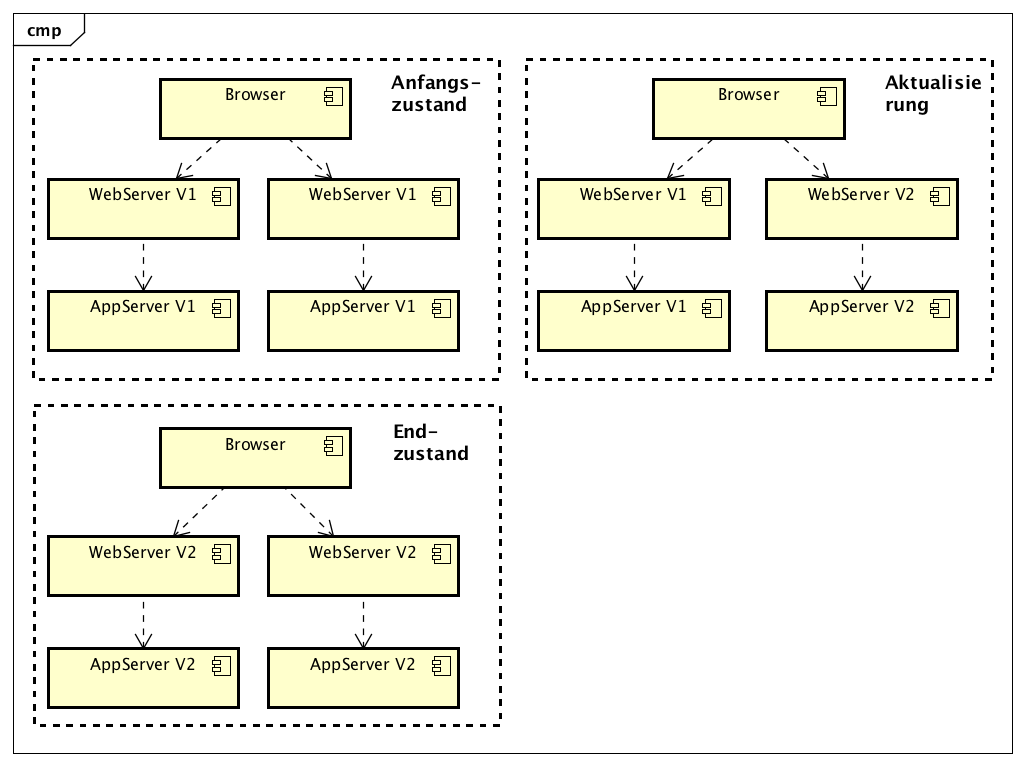
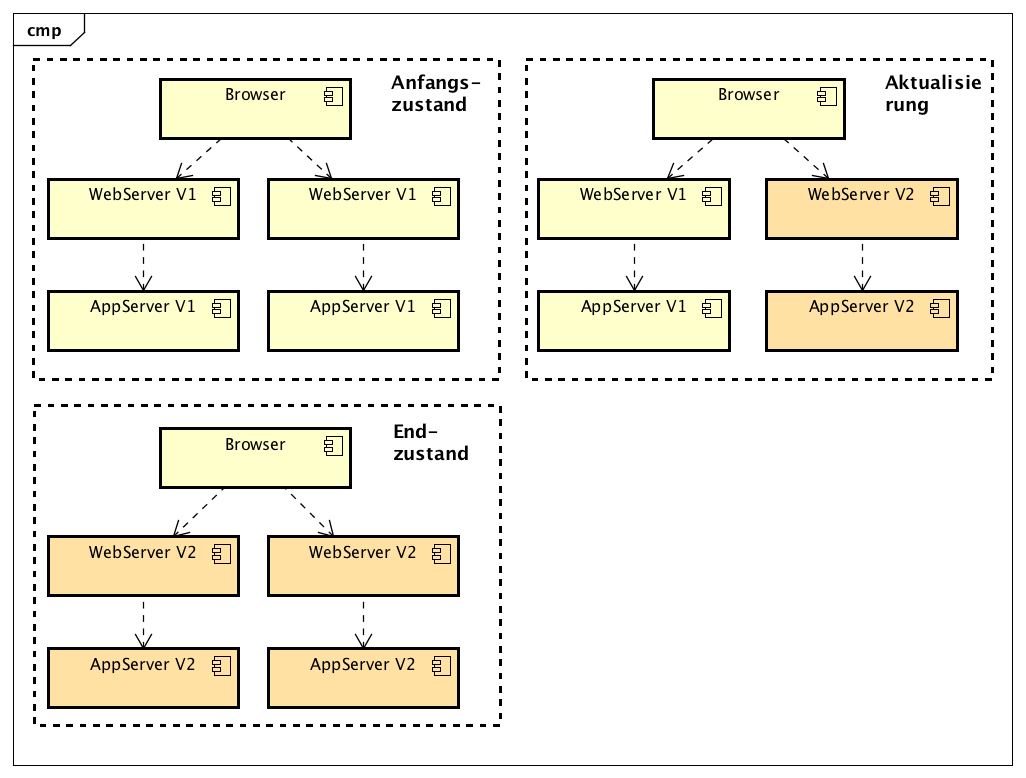
Added review.

diff --git a/thesis/loesung.tex b/thesis/loesung.tex
@@ -10,7 +10,7 @@ Als erster Schritt musste der Umfang der Arbeit definiert werden. Die Applikatio
 
 \section{Anforderungen}
 
-Bevor eine Lösung erarbeitet werden konnte, mussten die Anforderungen an die neue Software Architektur definiert werden. Leider waren die aktuellen Anforderungen ebenfalls nicht in schriftlicher Form vorhanden wodurch diese zusätzlich erfasst werden mussten. Da die Funktionen der Applikation hauptsächlich durch die Software Entwicklung getrieben wurden, konnte der Product Owner des Projektes direkt zu den Anforderungen befragt werden. \textcolor{red}{TODO Der folgende Satz ist zwar korrekt, ich würde ihn aber etwa so formulieren: Bei der Ausarbeitung der Anforderungen für diese Thesis hat sich gezeigt, dass funktional die Applikation unverändert bleibt und der Schwerpunkt auf den nicht funktionalen Anforderungen liegt.}Vor allem bei den neuen hat sich gezeigt, dass sich funktional an der Applikation nichts ändern sollte, sondern nur an den nicht funktionalen. Durch die Problemstellung resultiert daraus die Hauptanforderung, dass der Benutzer von einer Aktualisierung der Anwendung nichts merkt und dadurch der Dienst selber verfügbar bleibt. Aufgrund von Wartungsarbeiten an Netzwerkkomponenten, Datenbanken, oder an Betriebssystemen kann es dennoch zu Unterbrüchen kommen welche jedoch nicht Gegenstand der Lösung sind. Alle Anforderungen finden sich im SAD im Kapitel 1.3
+Bevor eine Lösung erarbeitet werden konnte, mussten die Anforderungen an die neue Software Architektur definiert werden. Leider waren die aktuellen Anforderungen ebenfalls nicht in schriftlicher Form vorhanden wodurch diese zusätzlich erfasst werden mussten. Da die Funktionen der Applikation hauptsächlich durch die Software Entwicklung getrieben wurden, konnte der Product Owner des Projektes direkt zu den Anforderungen befragt werden. Bei der Ausarbeitung der Anforderungen hat sich gezeigt, dass die Applikation funktional unverändert bleibt und der Schwerpunkt auf den nicht funktionalen Anforderungen liegt. Durch die Problemstellung resultiert daraus die Hauptanforderung, dass der Benutzer von einer Aktualisierung der Anwendung nichts merkt und dadurch der Dienst selber verfügbar bleibt. Aufgrund von Wartungsarbeiten an Netzwerkkomponenten, Datenbanken, oder an Betriebssystemen kann es dennoch zu Unterbrüchen kommen welche jedoch nicht Gegenstand der Lösung sind. Alle Anforderungen finden sich im SAD im Kapitel 1.3
 
 \section{Qualitätsziele}
 
@@ -24,7 +24,6 @@ Nach dem die Begrifflichkeiten klar waren, musste das generell zu lösende Probl
 \begin{center}
 	\includegraphics[scale=0.55]{MultiVersion.png}
 \end{center}
-\textcolor{red}{TODO Für ein schnelles Erfassen was hier abgeht schlage ich vor, dass du die neue Version anders einfärbst}
 Daraus lässt sich schliessen, dass die neue Architektur den gleichzeitigen Betrieb von mehreren Versionen unterstützen muss. Dies gilt vor allem für die Schnittstellen und die Datenspeicherung. Da die Applikation nicht geschäftskritisch ist, könnte eine Aktualisierung auch in der Nacht durchgeführt werden wenn sich tendenziell kein Benutzer auf der Webseite befinden. So könnten die Probleme mit der Versionierung der Schnittstelle minimiert werden, für die Datenbank braucht es dennoch eine Lösung.	
 
 \section{Teilprobleme}
@@ -33,7 +32,7 @@ Mit dem generellen Verständnis und den Anforderungen konnten nun Teilprobleme i
 
 \subsection{Versionierung}
 
-Wie bereits in der Problematik erwähnt, müssen Schnittstellen versioniert werden und abwärtskompatibel sein, damit der Benutzer von einer Änderung nichts merkt. Hier geht es vor allem um die REST \textcolor{red}{TODO REST mit Footnote?} Endpunkte, welche der Onboarding Server der Webseite zur Verfügung stellt.
+Wie bereits in der Problematik erwähnt, müssen Schnittstellen versioniert werden und abwärtskompatibel sein, damit der Benutzer von einer Änderung nichts merkt. Hier geht es vor allem um die REST\footnote{Steht für Representational State Transfer und ist eine Programmierparadigma welche in verteilten System für die Datenübertragung verwendet wird.} Endpunkte, welche der Onboarding Server der Webseite zur Verfügung stellt.
 
 \subsection{Datenspeicherung}
 
@@ -45,23 +44,23 @@ Soll der Benutzer sich auch bei der Aktualisierung der Applikation für TWINT re
 
 \subsection{Konfigurationsmanagement}
 
-Im Ist-Zustand wurde das aktuelle Konfigurationsmanagement mittels Docker und Docker Compose bereits erwähnt\textcolor{red}{TODO ist Docker Compose in diesem wirklich bereits erwähnt? Anstatt bereits erwähnt würde hier bewerkstelligt}. Für die neuen Anforderungen muss die aktuelle Lösung geprüft und gegebenenfalls ein anderer Ansatz verfolgt werden. Die Änderung der Konfiguration zur Laufzeit, als neue Anforderung, ist bei einer Applikation die immer wieder ausgerollt werden soll zwingend notwendig um die einzelnen Funktionen besser steuern zu können.
+Aktuell wird das Konfigurationsmanagement mit Hilfe von Docker und Docker Compose bewerkstelligt. Für die neuen Anforderungen muss die aktuelle Lösung geprüft und gegebenenfalls ein anderer Ansatz verfolgt werden. Die Änderung der Konfiguration zur Laufzeit, als neue Anforderung, ist bei einer Applikation die immer wieder ausgerollt werden soll zwingend notwendig um die einzelnen Funktionen besser steuern zu können.
 
 \subsection{Deployment Pipeline}
 
-Die Build Pipeline\footnote{Eine Pipeline ist eine Abfolge von Buildäufträgen(Stages) welche parallel und sequenziell ablaufen können. }, welche im Antrag erwähnt wurde wegen ihrer Wichtigkeit für das Bauen und Installieren der Applikation, wurde nicht weiterverfolgt. Der Grund dafür liegt in dem Fortschritt der Methodik, welche das Projekt seit dem Antrag gemacht hat. Wie in\cite{atlassiancd} beschrieben, sind verschieden Stages in der Pipeline sowie Feature Branchens in GIT eine Voraussetzung um eine Applikation zeitnahe in Betrieb zu bringen. Diese Praktiken werden aktuell im normalen Arbeitstag verwendet und müssen deshalb nicht nochmals evaluiert werden.
+Die Build Pipeline\footnote{Eine Pipeline ist eine Abfolge von Buildäufträgen(Stages) welche parallel und sequenziell ablaufen können. }, welche im Antrag erwähnt wurde wegen ihrer Wichtigkeit für das Bauen und Installieren der Applikation, wurde nicht weiterverfolgt. Der Grund dafür liegt in dem Fortschritt der Methodik, welche das Projekt seit dem Antrag gemacht hat. Wie in \cite{atlassiancd} beschrieben, sind verschieden Stages in der Pipeline sowie Feature Branchens in GIT eine Voraussetzung um eine Applikation zeitnahe in Betrieb zu bringen. Diese Praktiken werden aktuell im normalen Arbeitstag verwendet und müssen deshalb nicht nochmals evaluiert werden.
 
 \subsection{Fazit}
 
 Eine Aufteilung der Problematik in Teilprobleme hat geholfen ein bessere Verständnis zu erlangen welche Aspekte der aktuellen Architektur betroffen sind. Dadurch war eine bessere Fokusierung auf die Variantenfindung möglich und hat verhindert, dass Zeit mit nicht relevanten Themen verschwendet wird.
 
 \section{Bewertungskriterien}
-\textcolor{red}{TODO auch wenn dies jetzt noch nicht gemacht ist würde ich den Abschnitt in Vergangenheit halten, wie den Rest der Arbeit, da zum Zeitpunkt der Abgabe dies erledigt ist. Habe ich aber in dem Fall nicht angepasst}
-Die auszuarbeitenden Lösungsvarianten müssen auf ihre Verwendbarkeit geprüft und bewertet werden. Obschon Qualitätsziele für die Architektur definiert sind, eignen sie sich für die Bewertung von Bibliotheken und Lösungsvarianten nur bedingt. Weder das Arc42 Template noch \cite{esa} haben angemessen Metriken und Methoden im Angebot. Aus diesem Grund wird eine Bewertungsmatrix erstelle welche im CAS Software Architektur Workshop Modul bereits angewendet wurde. Dabei sind die einzelnen Kriterien mit dem Product Owner abgesprochen und gewichtet worden. Dabei lag der Fokus mehr auf Eigenschaften der einzelnen Bibliotheken und Produkte wie Maturität, vorhandenes Wissen, oder auf Aufwand. Die Kriterien überlappen sich an einigen Stellen mit den Qualitätszielen, was jedoch nicht als Nachteil gewertet wurde. Die Kriterien sind gezielt vor der Lösungsfindung erstellt worden um den Prozess möglichst objektiv zu halten. Spätere Anpassungen mussten trotzdem gemacht werden da nicht alles von Beginn an klar war. Die Kriterien sind im SAD im Kapitel 9.2 detailliert aufgeführt.
+
+Die auszuarbeitenden Lösungsvarianten mussten auf ihre Verwendbarkeit geprüft und bewertet werden. Obschon Qualitätsziele für die Architektur definiert sind, eignen sie sich für die Bewertung von Bibliotheken und Lösungsvarianten nur bedingt. Weder das Arc42 Template noch \cite{esa} haben angemessen Metriken und Methoden im Angebot. Aus diesem Grund wurde eine Bewertungsmatrix erstellt welche im CAS Software Architektur Workshop Modul bereits angewendet wurde. Dabei sind die einzelnen Kriterien mit dem Product Owner abgesprochen und gewichtet worden. Der lag Fokus mehr auf Eigenschaften der einzelnen Bibliotheken und Produkte wie Maturität, vorhandenes Wissen, oder potentieller Aufwand für Neuentwicklung und Anpassung. Die Kriterien überlappten sich an einigen Stellen mit den Qualitätszielen, was jedoch nicht als Nachteil gewertet wurde. Die Kriterien sind gezielt vor der Lösungsfindung erstellt worden um den Prozess möglichst objektiv zu halten. Spätere Anpassungen mussten trotzdem gemacht werden da nicht alles von Beginn an klar war. Die Kriterien sind im SAD im Kapitel 9.2 detailliert aufgeführt.
 
 \subsection{Fazit}
 
-Das Erstellen der Bewertungskriterien hatte den Vorteil die Bewertungen nicht den Lösungen anzupassen. Der Nachteil war, dass Kriterien vergessen gingen, was zu einer erneuten Bewertung oder Anpassung führte.
+Das Erstellen der Bewertungskriterien vor dem Ausarbeiten der Lösungsvarianten hatte den Vorteil, dass die Bewertungen nicht den Lösungen angepasst wurde. Der Nachteil war, dass Kriterien vergessen gingen und teilweise auch erst durch die Prototypen sichtbar wurden. Dadurch mussten eine zweite Bewertungsrunde durchgeführt werden.
 
 
 \section{Teillösungensvarianten}
@@ -89,8 +88,7 @@ Bei der Datenspeicherung war die Frage ob der aktuelle Ansatz mit einer relation
 Bei SIX wird Oracle seit langer Zeit eingesetzt und ist der Standard für Datenspeicherung jeglicher Art. Aus diesem Grund wurde dies logischerweise als Variante in Betracht gezogen. Sie bietet alle Features um Anwendungen im Geschäftsbereich zu betreiben.\newline
 Die zweite Variante in der Liste ist die MySQL Datenbank. Diese wird aktuell in der produktiven Applikation verwendet was sie ebenfalls als Kandidaten für die Speicherung der Daten empfiehlt.
 MySQL bietet wie Oracle diverse Mechanismen welche für Geschäftsanwendungen unumgänglich sind. Das Know-how für den Betrieb ist jedoch nicht auf dem gleichen Stand wie bei Oracle.\newline
-Als neue Möglichkeit für die Datenspeicherung sind NoSQL\footnote{NoSQL steht für Not Only SQL und kategorisiert Datenbanken welche schemalos sind und nicht nach dem ACID Prinzip arbeiten.} Datenbanken. Die Idee für deren Verwendung stammt vom CAS Big Data und den dazu gehörenden Folien \cite{nosqlintro}. \textcolor{red}{TODO Den folgenden Satz verstehe ich nicht, .. nicht nur .. sondern auch .. wäre für mich richtig} Dabei geht es nicht nur um den Umstand, dass die NoSQL Datenbanken kein Schema haben, sondern im Kontext des CAP-Theorems, welches im vorgängigen Kapitel erläutert wurde. 
-Daraus ergab sich die dritte Variante die Speicherung mit MongoDB zu realisieren. Die Datenbank arbeiten im Unterschied zu relationalen Datenbanken nicht mit Tabellen sondern mit Dokumenten. Diese sind schemalos und können deshalb gleichzeitig in mehreren Versionen vorliegen. Dadurch ist bei einem Update der Anwendung keine Schemamigration notwendig.\newline
+Eine neue Möglichkeit der Datenspeicherung sind NoSQL\footnote{NoSQL steht für Not Only SQL und kategorisiert Datenbanken welche schemalos sind und nicht nach dem ACID Prinzip arbeiten.} Datenbanken. Die Idee für deren Verwendung stammt vom CAS Big Data und den dazu gehörenden Folien \cite{nosqlintro}. Daraus ergab sich die dritte Variante die Speicherung mit MongoDB zu realisieren. Die Datenbank arbeiten im Unterschied zu relationalen Datenbanken nicht mit Tabellen sondern mit Dokumenten. Diese sind schemalos und können deshalb gleichzeitig in mehreren Versionen vorliegen. Dadurch ist bei einem Update der Anwendung keine Schemamigration notwendig.\newline
 Als letzte Variante wurde Redis in Betracht gezogen. Es handelt sich dabei ebenfalls um eine NoSQL Datenbank welche jedoch ein Key-Value Store ist. Sie verfügt über eine Abfrage Sprache um Daten zu finden und wird auch bereits bei SIX verwendet.
 
 \subsection{Kommunikationsentkopplung}
@@ -129,7 +127,7 @@ Durch die Bewertung blieben nur MySQL und MongoDB übrig. Leider konnten für be
 
 \subsection{Konfigurationsmanagement}
 
-Docker Compose wurde bei einem Interview mit den Entwicklern als ungenügend dokumentiert und schwerfällig bezeichnet, weshalb es als künftige Variante nicht in Frage kommt. Die Docker Container selber wurden als angemessene Lösung empfunden und sollten deshalb, wenn möglich, weiterverwendet werden. Saltstack arbeitet generell mit anderen Konzepten als die jetzt verwendeten Container, was einen Einsatz nicht sinnvoll macht, obschon die Bewertung eher hoch ausgefallen ist. OpenShift, als Variante, hat eine schlechtere Bewertung als SaltStack, ist für die Firma mittlerweile aber von strategischer Bedeutung was aussagen des Product Owner auch belegen. Daher ist eine Verwendung unumgänglich. Hierfür musste jedoch weitere Recherchen gemacht werden um den Einsatz besser abzuschätzen. Die beste Bewertung hat Spring Cloud Config erhalten vor allem wegen des guten Know-hows und der Bekanntheit von Spring. Nichtsdestotrotz wurde entschieden ein Prototypen zu machen um die Funktionsweise verifizieren zu können.
+Docker Compose wurde bei einem Interview mit den Entwicklern als ungenügend dokumentiert und schwerfällig bezeichnet, weshalb es als künftige Variante nicht in Frage kommt. Die Docker Container selber wurden als angemessene Lösung empfunden und sollten deshalb, wenn möglich, weiterverwendet werden. Saltstack arbeitet generell mit anderen Konzepten als die jetzt verwendeten Container, was einen Einsatz nicht sinnvoll macht, obschon die Bewertung eher hoch ausgefallen ist. OpenShift, als Variante, hat eine schlechtere Bewertung als SaltStack, ist für die Firma mittlerweile aber von strategischer Bedeutung was aussagen des Product Owner auch belegen. Daher ist eine Verwendung unumgänglich weil anderenfalls die Lösung unter die Kategorie 'Special Solutions' fällt und die Kosten dadurch selber getragen werden müssen. Hierfür musste jedoch weitere Recherchen gemacht werden um den Einsatz besser abzuschätzen. Die beste Bewertung hat Spring Cloud Config erhalten vor allem wegen des guten Know-hows und der Bekanntheit von Spring. Nichtsdestotrotz wurde entschieden ein Prototypen zu machen um die Funktionsweise verifizieren zu können.
 
 \subsection{Kommunikationsentkopplung}
 
@@ -316,7 +314,7 @@ Das Software Architektur Dokument wurde schon während den Evaluationen und dem 
 
 \subsection{Bausteinsicht}
 
-Von Vorarbeiten her war bekannt, dass die Applikation mit einer Schichtenarchitektur umgesetzt wurde und wie die Schichten auf die einzelnen Komponenten verteilt sind. Der interne Aufbau war hingegen nicht bekannt und musste deshalb zuerst herausgefunden werden. Hierfür wurde einerseits der Sourcecode verwendet und andererseits die beteiligten Entwickler direkt befragt. Eine Schwierigkeit war es die Komponenten der Ebene entsprechend zu kategorisieren und zusammenzufassen. Zusätzlich musste der neue Teil mit der Konfiguration vermerkt werden. \textcolor{red}{TODO was sagt der nächste Satz?}Damit die auf der ersten Ebene die Übersicht nicht verloren ging, wurden auf der zweiten Ebene die wichtigsten Teile genauer ausgearbeitet und mit den Entwicklern verifiziert. Auf eine noch genauere Ebene wurde verzichtet, da die gelieferten Informationen die wichtigsten Aspekte beschreiben. Die Bausteinsicht befindet sich im SAD im Kapitel 6.
+Von Vorarbeiten her war bekannt, dass die Applikation mit einer Schichtenarchitektur umgesetzt wurde und wie die Schichten auf die einzelnen Komponenten verteilt sind. Der interne Aufbau war hingegen nicht bekannt und musste deshalb zuerst herausgefunden werden. Hierfür wurde einerseits der Sourcecode verwendet und andererseits die beteiligten Entwickler direkt befragt. Eine Schwierigkeit war es die Komponenten der Ebene entsprechend zu kategorisieren und zusammenzufassen. Zusätzlich musste der neue Teil mit der Konfiguration vermerkt werden. Um die Übersicht auf der ersten Ebene zu wahren, wurden auf der zweiten Ebene die wichtigsten Teile genauer ausgearbeitet und mit den Entwicklern verifiziert. Auf eine noch genauere Ebene wurde verzichtet, da die gelieferten Informationen die wichtigsten Aspekte beschreiben. Die Bausteinsicht befindet sich im SAD im Kapitel 6.
 
 \subsection{Laufzeitsicht}
 
@@ -325,7 +323,7 @@ Durch die Verwendung von Spring Cloud Config ist der Ablauf der Konfigurationsä
 
 \subsection{Verteilungssicht}
 
-Mit dem Entscheid OpenShift als Plattform zu verwendet anstelle von Docker Compose, musste die Art wie die Applikation verteilt wird neu definiert werden. Vor allem musste Klarheit über die einzelnen Komponenten von OpenShift sowie das Deployment der Plattform selber verstanden werden. Durch SIX interne Kurse mit Red Hat sowie in enger Absprache mit den Administratoren konnte eine erste Idee gewonnen werden. Aktuell ist das Ziel die Plattform in beiden Rechenzentren in Zürich und Lupfig zu installieren und dies jeweils in der DMZ und PCI\textcolor{red}{TODO ev. Footnote, dass es sich um Firewallzonen handelt} Zone. Die Applikation selber weiss nicht wo die einzelnen Teile laufen, sondern überlässt das ganze Routing OpenShift, welches im Endeffekt ein Software Defined Network\footnote{Ein Software Defined Network oder kurz SDN ist eine Technik mit der sich Netzwerktopologien mittels Software definieren und steuern lassen. Somit ist es nicht mehr nötig die Netzwerkkomponenten von Hand zu konfigurieren. } ist. Mit diesem Wissen konnte die Verteilungssicht erstellt und beschrieben werden. Mit OpenShift kommen zusätzliche neue Begriffe hinzu welche angemessen erklärt werden mussten. Diese wurde direkt aus der Dokumentation von \cite{osservicepod} extrahiert. Die Bausteinsicht befindet sich im SAD im Kapitel 8.
+Mit dem Entscheid OpenShift als Plattform zu verwendet anstelle von Docker Compose, musste die Art wie die Applikation verteilt wird neu definiert werden. Vor allem musste Klarheit über die einzelnen Komponenten von OpenShift sowie das Deployment der Plattform selber verstanden werden. Durch SIX interne Kurse mit Red Hat sowie in enger Absprache mit den Administratoren konnte eine erste Idee gewonnen werden. Aktuell ist das Ziel die Plattform in beiden Rechenzentren in Zürich und Lupfig zu installieren und dies jeweils in den Firewallzonen DMZ und PCI. Die Applikation selber weiss nicht wo die einzelnen Teile laufen, sondern überlässt das ganze Routing OpenShift, welches im Endeffekt ein Software Defined Network\footnote{Ein Software Defined Network oder kurz SDN ist eine Technik mit der sich Netzwerktopologien mittels Software definieren und steuern lassen. Somit ist es nicht mehr nötig die Netzwerkkomponenten von Hand zu konfigurieren. } ist. Mit diesem Wissen konnte die Verteilungssicht erstellt und beschrieben werden. Mit OpenShift kommen zusätzliche neue Begriffe hinzu welche angemessen erklärt werden mussten. Diese wurde direkt aus der Dokumentation von \cite{osservicepod} extrahiert. Die Bausteinsicht befindet sich im SAD im Kapitel 8.
 
 \subsection{Konzepte}
 
@@ -364,7 +362,7 @@ Der Prototyp wurde aufgrund des Testserversetups im Vergleich zur Installation, 
 
 {\color{red} Erledigen nach dem Meeting mit Change Management am Montag 27.2}
 
-\subsection{Fazit Software Architektur Dokument}
+\subsection{Fazit}
 
 Das Software Architektur Dokument ist ein gutes Mittel und auch Leitfaden um ein System und seine Architektur zu beschreiben. Gernot Starke hat mit dem Arc42 eine gute Basis geschaffen, welche Architekten bei ihrer Arbeit hilft. Es hat sich aber auch gezeigt, dass es sich um ein Grundgerüst handelt, welches stellenweise erweitert werden muss. Das Kapitel Entwurfsentscheidung sei hier erwähnt, da es doch eine detaillierte Beschreibung der getroffenen Entscheidungen zeigt. Ohne diese ist eine spätere Anpassung der Architektur schwierig und mit Aufwand verbunden.
 
@@ -376,4 +374,5 @@ Das Software Architektur Dokument ist ein gutes Mittel und auch Leitfaden um ein
 
 \section{Ergebnis}
 
-{\color{red} Ich muss mir das noch kurz zusammenreimen wie ich das ganze SAD auf ein kurzes Kapitel zusammendrücke.}
+Das Ergebnis der Thesis ist ein Software Architektur Dokument welches die neue Architektur auf einem Abstraktionslevel beschreibt damit ein Entwicklerteam die aktuelle Anwendung anpassen könnte. Die verschiedenen Sichten im Dokument illustrieren wie der Anwendungsfall in den einzelnen Teilen der Applikation umgesetzt werden muss. Das Dokument erklärt wie die verschiedenen Konzepte, vor allem Continuous Delivery, eingesetzt und was dabei beachtet werden muss. Schlussendlich sind sämtliche Entscheidungen, welche während der Erarbeitung getroffen wurden, dokumentiert und ermöglichen dadurch spätere Anpassungen.\newline
+Die erstellten Prototypen können als Einstiegspunkt für die Entwicklung verwendet werden und dienen zusätzlich dazu, dass Verständnis für die Lösung besser darzustellen.

diff --git a/thesis/ausgangslage.tex b/thesis/ausgangslage.tex
@@ -13,7 +13,7 @@ Die Applikation wurde mit aktuellen Frameworks entwickelt. In der folgenden Tabe
 \begin{table}[H]
 	\centering
 	\caption{Technische Rahmenbedienungen}
-	\begin{tabular}{ | p{4cm} | p{12cm} | }
+	\begin{tabular}{ | p{4cm} | p{10cm} | }
 		\toprule
 		{\textbf{Technologie / Tool}} & {\textbf{Einsatzzweck}} \\
 		\midrule
@@ -41,7 +41,7 @@ Der Onboarding Teil ist mit Hilfe einer Schichtenarchitektur umgesetzt wobei die
 
 \subsection{Organisatorisch}
 
-Da SIX im Finanzbereich tätig ist, gibt es Richtlinien und Prozesse wann, wie und ob Änderungen überhaupt in Produktion gehen dürfen. Aktuell werden die Changes im Issue Trackingsystem Jira erfasst und mit einer Release Version versehen. Durch die Anbindung an Fisheye und SVN ist jederzeit ersichtlich mit welchem Ticket welche Codeteile betroffen waren. Da das Projekt unter erleichterten Bedingungen umgesetzt wurde ist ein Eintrag im ITSM \footnote{Change Management Applikation welche \textcolor{red} {TODO eigentlich ist im ITSM ITIL \url{https://de.wikipedia.org/wiki/IT_Infrastructure_Library} abgebildet, das Change Management ist ein Teil davon} für das Erfassen von Änderungen an Systemen verwendet wird.} System aktuell nicht Pflicht obschon das gemäss normalen Richtlinien der Fall wäre. Mittlerweile können Änderungen mit einem Prozess von Jira ins ITSM automatisch übertragen werden.
+Da SIX im Finanzbereich tätig ist, gibt es Richtlinien und Prozesse wann, wie und ob Änderungen überhaupt in Produktion gehen dürfen. Aktuell werden die Changes im Issue Trackingsystem Jira erfasst und mit einer Release Version versehen. Durch die Anbindung an Fisheye und SVN ist jederzeit ersichtlich mit welchem Ticket welche Codeteile betroffen waren. Da das Projekt unter erleichterten Bedingungen umgesetzt wurde ist ein Eintrag im ITSM \footnote{Anwendung für ITIL \url{https://de.wikipedia.org/wiki/IT_Infrastructure_Library} welches auch das Change Management enthält.} System aktuell nicht Pflicht obschon das gemäss normalen Richtlinien der Fall wäre. Mittlerweile können Änderungen mit einem Prozess von Jira ins ITSM automatisch übertragen werden.
 Gemäss den Richtlinien müsste eine Änderung fünf Personentage vor Going live eingetragen und freigegeben sein. Die Praxis ist wie erwähnt auf die Branche der SIX zurückzuführen und hat unter genauerer Betrachtung eher formellen Nutzen. Die Freigabe im System wird meistens von Personen gemacht welche nicht an der Entwicklung und dem Betrieb der Applikation beteiligt sind. Für diese Personen ist eine Beurteilung der Änderungen meist nicht möglich. Hier wäre wohl eine Kategorisierung der Applikation, welche einen solchen Prozess benötigen, sinnvoll, um nicht unnötige Prozesse für kleine nicht zwingen kritische Applikation zu forcieren.
 
 \section{Situationsanalyse}
@@ -53,7 +53,7 @@ Durch die Initiativen ändert sich auch der organisatorische Aspekt. So sollen V
 
 \subsection{Scrum}
 
-Für das Projekt Management der Masterthesis wird Scrum\footnote{Iteratives Entwicklungsverfahren welches sich auf das Agile Manifesto stützt und diesem diverse Rollen hinzufügt. } verwendet. Im Rahmen der Masterthesis wird jedoch nicht der ganze Werkzeugkasten der Methodik verwendet da dies zu viel Aufwand bedeuten würde. Wichtige Teile, wie das Planning, werden entsprechen kurz gehalten.
+Für das Projekt Management der Masterthesis wird Scrum\footnote{Iteratives Entwicklungsverfahren welches sich auf das Agile Manifesto stützt und diesem diverse Rollen hinzufügt.} verwendet. Im Rahmen der Masterthesis wird jedoch nicht der ganze Werkzeugkasten der Methodik verwendet da dies zu viel Aufwand bedeuten würde. Wichtige Teile, wie das Planning, werden entsprechen kurz gehalten.
 Scrum eignet sich gut für die Umsetzung der Arbeit da es implizit einen kurzen Feedbackzyklus vorschreibt. Da es sich beim Thema für SIX um Neuland handelt und daher keine Erfahrungen vorliegen, sind kleine iterative Schritte gut um Risiken früh zu erkennen und Anpassungen schnell umzusetzen.
 
 \subsection{Prototyping}

diff --git a/thesis/projekmanagement.tex b/thesis/projekmanagement.tex
@@ -28,7 +28,7 @@ Der Projektplan wurde grob gehalten und nur die wichtigsten Aufgaben aufgenommen
 		\midrule
 		Richtlininen der Firma & Abklärungen und Vorschläge wie die Richtlinien eingehalten werden können oder angepasst werden müssten. & Die bestehenden Richtlinien werden von der Applikation bereits eingehalten. Die Vorgaben bezüglich Change Management müssen frühzeitig angegangen werden da es Einfluss auf den Prozess hat. \\ \hline
 		Conway's law & Conway's law ist eine Beziehung zwischen der Firmenorganisation und der Softwarearchitektur. Das Gesetz besagt, dass die Software Architektur eines Systems sich nach der Firma richtet. & Obschon die Organisation noch eher klassisch aufgebaut ist, sind durch firmeninterne Initiativen die Entwicklungsabteilungen nicht so stark an Vorgaben gebunden. Dennoch ist das Risiko im Auge zu behalten. \\ \hline
-		Fehlende Requirements & Das Projekt wurde in kurzer Zeit umgesetzt und hat deshalb keinen formalen Requirement Engineering Prozess durchlaufen. Dadurch sind weder funktionale noch nicht funktionalen Anforderungsdokumente vorhanden. & Die Requirements nach zu erfassen ist in diesem Fall nicht zielführend, da es nur einen hohen Aufwand ohne Mehrwert verursacht. Da die Applikation klein\textcolor{red}{TODO klein tönt hier komisch, ich würde dem eher überschaubar sagen} ist und einen klaren Business Case hat,  wird dieser im Software Architektur Dokument beschrieben.\\ \hline
+		Fehlende Requirements & Das Projekt wurde in kurzer Zeit umgesetzt und hat deshalb keinen formalen Requirement Engineering Prozess durchlaufen. Dadurch sind weder funktionale noch nicht funktionalen Anforderungsdokumente vorhanden. & Die Requirements nach zu erfassen ist in diesem Fall nicht zielführend, da es nur einen hohen Aufwand ohne Mehrwert verursacht. Da die Applikation überschaubar ist und einen klaren Business Case hat,  wird dieser im Software Architektur Dokument beschrieben.\\ \hline
 		Neue Requirements & Die Requirements für die Architekturanpassung sind nicht definiert. & Da die Anforderung von der Entwicklungsabteilung getrieben wird, sollen die Basisanforderungen als erstes erfasst werden. Änderungen oder Ergänzungen sollen nach-dokumentiert werden.\\
 		\bottomrule
 	\end{tabular}

diff --git a/thesis/management-summary.tex b/thesis/management-summary.tex
@@ -2,5 +2,5 @@
 
 Die vorliegende Masterthesis hat das Ziel eine Software Architektur zu entwerfen welche es erlaubt die darauf basierende Applikation, ohne Unterbruch des Dienstes, in einer produktiven Umgebung vollautomatisch zu installieren.\newline\newline
 Neue Anforderungen, welche in immer kürzerer Zeit dem Benutzer zur Verfügungen gestellt werden müssen, sind eine neue Herausforderungen für den Finanzdienstleister SIX und die Motivation dieser Arbeit.\newline\newline
-Methodisch orientierte sich das Vorgehen an Standard Prozessen der Firma wie Scrum und Prototyping. Die Problematik wurde zuerst in kleinere Teilprobleme aufgeteilt und für diese in einem weit gefassten Lösungsraum Varianten gesucht. Diese wurden mittels einer mit dem Product Owner erarbeiteten Matrix bewertet und bei Unklarheiten mit Prototypen verifiziert. Die daraus entstandenen Teillösungen sind mit der bestehenden Architektur zusammen geführt und die endgültige Lösung in einem Software Architektur Dokument spezifiziert worden.\newline\newline
+Methodisch orientierte sich das Vorgehen an Standard Prozessen der Firma wie Scrum und Prototyping. Die neuen Anforderungen wurden mit dem Product Owner in Qualtitätsszenarien für die neue Architektur übertragen. Die Problematik wurde zuerst in kleinere Teilprobleme aufgeteilt und für diese in einem weit gefassten Lösungsraum Varianten gesucht. Diese wurden mittels einer mit dem Product Owner erarbeiteten Matrix bewertet und bei Unklarheiten mit Prototypen verifiziert. Die daraus entstandenen Teillösungen sind mit der bestehenden Architektur zusammengeführt und die endgültige Lösung in einem Software Architektur Dokument spezifiziert worden. Das Dokument diente als Vorlage für den finalen Prototypen mit welchem die Qualitätsziele verifiziert wurden.\newline\newline
 Die Masterthesis zeigt zum Schluss auf, dass die gesetzten Qualitätsziele und Anforderungen, durch gezielten Einsatz von Methoden und Technologien, umgesetzt werden können und was die Folgen für SIX sind.
